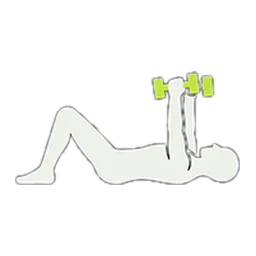
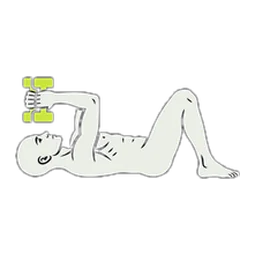
v109: tres de la segunda tanda
- elev-laterales: los brazos paran ya en la horizontal, que era el error de
  tecnica que arrastraba.
- jalon-toalla: de la raya vertical de 64 px de ancho a una postura abierta
  que se lee a 30 px.
- press-frances-mc: ahora con el codo doblado y la mancuerna junto a la oreja,
  ya no se confunde con un press de pecho.

Quedan tres, que no pasan: el curl con toalla sale con DOS toallas y un brazo
que no hace nada; los encogimientos siguen sin encoger los hombros; y la
elevacion en Y sale de pie en vez de tumbado boca abajo.

Changed region(s): [[0.0625, 0.2812, 0.9375, 0.75], [0.8438, 0.625, 0.875, 0.6562]]

diff --git a/assets/pictos.js b/assets/pictos.js
@@ -1,3 +1,3 @@
 /* generado por tools/pictos.py — qué patrones tienen pictograma en assets/pictos/ */
-window.B2P_PICTOS = ['abduccion-lado', 'ais', 'banda', 'bis', 'core', 'curl', 'curl-mochila', 'curl-nordico', 'eh', 'ev', 'ext', 'flex', 'flexiones', 'fondos', 'fondos-silla', 'gem', 'pike-flexiones', 'pino-pared', 'press-frances-mc', 'puente', 'rdl-1p', 'remo-mesa', 'remo-toalla', 'rod', 'sentadilla-pc', 'th', 'tv', 'zan', 'zancada-pc'];
-window.B2P_PICTOS_NIV = {"abduccion-lado": "nada", "ais": "casa", "banda": "casa", "bis": "gym", "core": "nada", "curl": "casa", "curl-mochila": "nada", "curl-nordico": "nada", "eh": "gym", "ev": "gym", "ext": "gym", "flex": "nada", "flexiones": "nada", "fondos": "gym", "fondos-silla": "nada", "gem": "nada", "pike-flexiones": "nada", "pino-pared": "nada", "press-frances-mc": "casa", "puente": "nada", "rdl-1p": "nada", "remo-mesa": "nada", "remo-toalla": "nada", "rod": "gym", "sentadilla-pc": "nada", "th": "gym", "tv": "gym", "zan": "casa", "zancada-pc": "nada"};
+window.B2P_PICTOS = ['abduccion-lado', 'ais', 'banda', 'bis', 'core', 'curl', 'curl-mochila', 'curl-nordico', 'eh', 'elev-laterales', 'ev', 'ext', 'flex', 'flexiones', 'fondos', 'fondos-silla', 'gem', 'jalon-toalla', 'pike-flexiones', 'pino-pared', 'press-frances-mc', 'puente', 'rdl-1p', 'remo-mesa', 'remo-toalla', 'rod', 'sentadilla-pc', 'th', 'tv', 'zan', 'zancada-pc'];
+window.B2P_PICTOS_NIV = {"abduccion-lado": "nada", "ais": "casa", "banda": "casa", "bis": "gym", "core": "nada", "curl": "casa", "curl-mochila": "nada", "curl-nordico": "nada", "eh": "gym", "elev-laterales": "casa", "ev": "gym", "ext": "gym", "flex": "nada", "flexiones": "nada", "fondos": "gym", "fondos-silla": "nada", "gem": "nada", "jalon-toalla": "nada", "pike-flexiones": "nada", "pino-pared": "nada", "press-frances-mc": "casa", "puente": "nada", "rdl-1p": "nada", "remo-mesa": "nada", "remo-toalla": "nada", "rod": "gym", "sentadilla-pc": "nada", "th": "gym", "tv": "gym", "zan": "casa", "zancada-pc": "nada"};

diff --git a/sw.js b/sw.js
@@ -1,5 +1,5 @@
 /* BACK2PRIME · service worker — cache-first para funcionar sin cobertura en el gym */
-const V = 'b2p-v108';
+const V = 'b2p-v109';
 const CORE = [
   './',
   './index.html',
